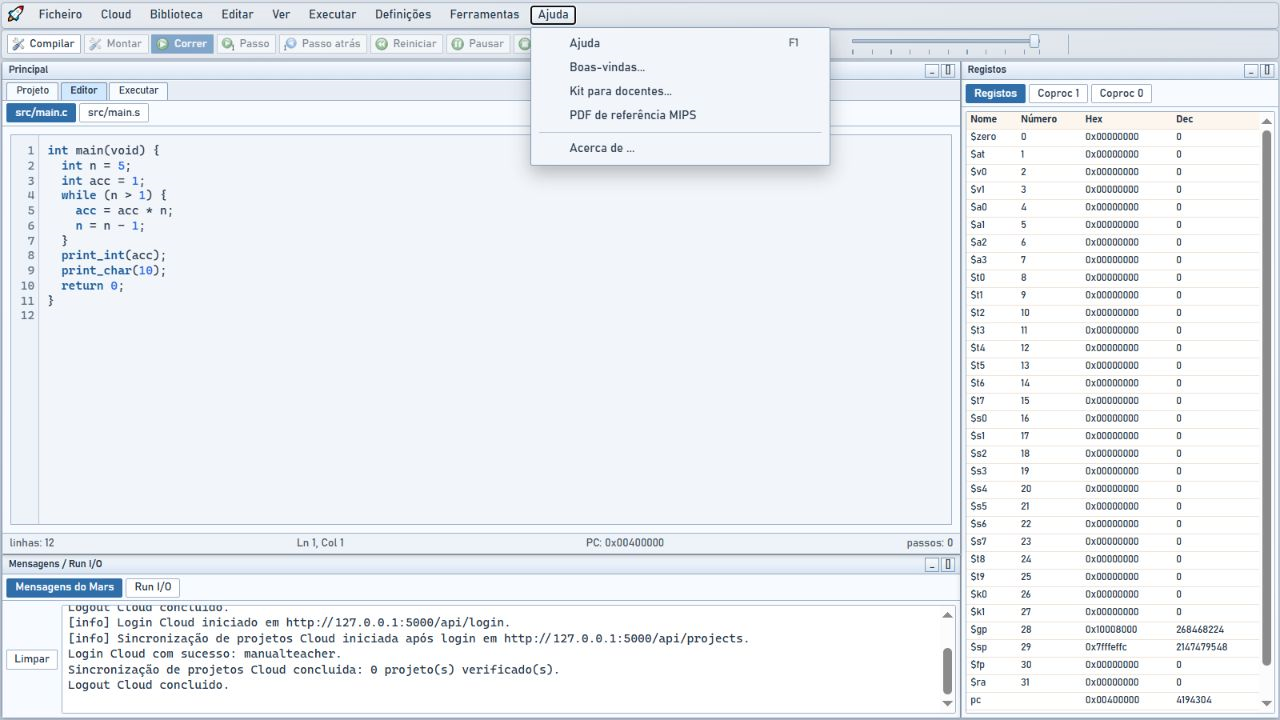
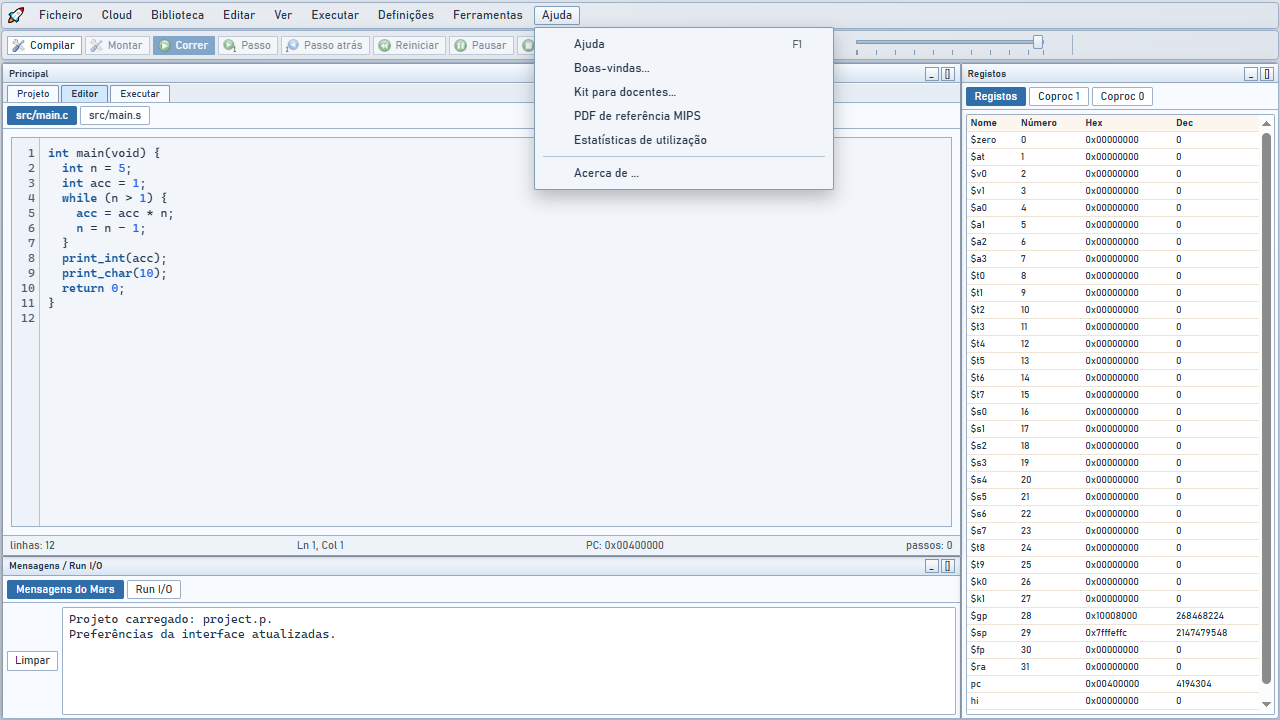
Release Manual v0.2.0 for webMARS v0.6.4

diff --git a/manual/index.html b/manual/index.html
@@ -6,8 +6,8 @@
   <meta name="color-scheme" content="light dark">
   <meta name="theme-color" content="#fdfcf9" media="(prefers-color-scheme: light)">
   <meta name="theme-color" content="#191713" media="(prefers-color-scheme: dark)">
-  <meta name="description" content="Manual completo, independente e pesquisável do webMARS: Assembly MIPS32, Mini-C, depuração, ferramentas, pipeline, Cloud e referência.">
-  <title>Manual do webMARS · v0.1</title>
+  <meta name="description" content="Manual completo, independente e pesquisável do webMARS: Assembly MIPS32, Mini-C, depuração, ferramentas, Cloud, Biblioteca pública e estatísticas de utilização.">
+  <title>Manual do webMARS</title>
   <link rel="icon" href="./assets/favicon.ico">
   <link rel="stylesheet" href="./assets/manual.css">
   <script src="./manual-config.js"></script>
@@ -29,7 +29,7 @@
 
       <a class="head-brand" href="#/inicio">
         <span class="brand-title">Manual do webMARS</span>
-        <span class="brand-edition">Ed. 0.1</span>
+        <span class="brand-edition">Edição</span>
       </a>
 
       <p class="running-recto" id="running-recto"></p>

diff --git a/manual/assets/manual.js b/manual/assets/manual.js
@@ -28,6 +28,9 @@ const searchHint = document.querySelector("#search-hint");
 const toast = document.querySelector("#toast");
 const appLink = document.querySelector("#webmars-app-link");
 const supportLink = document.querySelector("#manual-support-link");
+const brandEdition = document.querySelector(".brand-edition");
+
+if (brandEdition) brandEdition.textContent = `Ed. ${MANUAL.displayVersion.replace(/^v/, "")}`;
 
 if (appLink) {
   appLink.href = String(window.WebMarsManualConfig?.appUrl || "../");

diff --git a/manual/CHANGELOG.md b/manual/CHANGELOG.md
@@ -3,6 +3,39 @@
 Todas as alterações relevantes deste subprojeto são registadas aqui. O formato
 segue *Keep a Changelog* e o manual usa versionamento semântico próprio.
 
+## [0.2.0] — 2026-10-20
+
+### Adicionado
+
+- início de sessão social opcional, associação de contas e configuração dos fornecedores;
+- classificação de público e comparação entre visitas, sessões e atividade Cloud;
+
+- capítulo de Estatísticas de utilização: últimos 60 minutos, 24 horas e
+  30 dias, seis indicadores principais, 12 medições, gráficos, filtros e tabelas;
+- interpretação de sessões, novas sessões, interação, presença, mediana e P90,
+  distinguindo visitas, contas Cloud e resultados educativos;
+- instalação do coletor, retenção, agregados públicos e diagnóstico do painel;
+- captura real do painel com dados sintéticos, elevando o conjunto a 36 imagens.
+
+### Alterado
+
+- produto documentado: webMARS 0.6.4, commit
+  `09afa3008c95b21e2f988e7b3708335d35d16a4f`, verificado em 2026-10-20;
+- Biblioteca pública em vista de detalhe, pesquisa no servidor, páginas de
+  25 resultados, seleção, metadados e navegação por teclado;
+- capturas da Biblioteca pública e menu Ajuda atualizadas para a interface 0.6.3;
+- mapa de dados, recolha automática e Kit Docente atualizados; as 33 capturas
+  dos fluxos que não mudaram conservam a proveniência 0.6.0;
+- cobertura expandida para 21 capítulos numerados, mantendo as URLs anteriores;
+- catálogos locais e hashes do product lock atualizados para a edição auditada.
+
+### Corrigido
+
+- a entrada histórica 0.1.1 apresenta os seus próprios commit e versão, sem
+  herdar dinamicamente os metadados de edições posteriores;
+- esclarecido que `vendor/` serve os testes da aplicação e não o alojamento.
+- a edição no cabeçalho passa a derivar dos metadados do Manual, tal como o título da página.
+
 ## [0.1.1] — 2026-09-03
 
 ### Corrigido
@@ -44,5 +77,6 @@ segue *Keep a Changelog* e o manual usa versionamento semântico próprio.
 - recuperação de password e verificação de email por código temporário;
 - Kit Docente e guia completo de self-hosting/Gmail para webMARS 0.6.0.
 
+[0.2.0]: https://github.com/codigoavulso/webMARS/releases/tag/manual-v0.2.0
 [0.1.1]: https://github.com/codigoavulso/webMARS/releases/tag/manual-v0.1.1
 [0.1.0]: https://github.com/codigoavulso/webMARS/releases/tag/manual-v0.1.0

diff --git a/manual/teacher-kit/self-hosting-privacy.md b/manual/teacher-kit/self-hosting-privacy.md
@@ -8,6 +8,8 @@
 - [ ] Diretório da base de dados é privado e existe backup verificado.
 - [ ] Registo, verificação, reset, publicação e revisão fixa passaram smoke tests.
 - [ ] Política de retenção, logs, suporte e incidente está publicada.
+- [ ] A área de privacidade descreve a recolha automática de métricas, se configurada.
+- [ ] O painel Ajuda → Estatísticas de utilização foi testado para 60 minutos, 24 horas e 30 dias.
 - [ ] Existe contacto institucional para utilizadores.
 
 ## Separação de dados
@@ -16,6 +18,26 @@
 - Cloud: conta e projetos enviados explicitamente ao BackMars.
 - Biblioteca: snapshot sanitizado publicado explicitamente; leitura anónima.
 - SMTP: apenas códigos temporários e avisos; credenciais só no servidor.
+- Métricas da instalação oficial: eventos e tempos aproximados enviados automaticamente,
+  com sessão temporária e categorias limitadas; fontes, input/output e contas ficam fora.
+- Estatísticas públicas: apenas agregados; sessões não são pessoas únicas ou contas registadas.
+- Manual: pesquisa local e sem telemetria.
+
+## Estatísticas e leitura dos dados
+
+O coletor Python/SQLite é um serviço separado do BackMars e do site estático.
+Os endpoints de eventos e agregados devem pertencer à origem da app; a base de
+métricas conserva registos durante 35 dias. O operador informa a política na área
+de privacidade de Ajuda/Sobre e nas páginas públicas correspondentes.
+
+Na instalação oficial, as preferências de interface não controlam a recolha e
+não existe um diálogo de aceitação nem uma caixa de estatísticas. Cada instalação
+própria configura o seu coletor. O heartbeat partilha o fluxo de eventos e envia
+presença visível a cada 60 segundos; interação e presença são relógios separados.
+
+Compare períodos equivalentes sob a mesma política de recolha. Um crescimento de
+sessões não demonstra mais pessoas únicas; uma execução bem-sucedida não prova
+a correção de um exercício. Estas métricas não são um sistema de avaliação.
 
 ## Pedido de suporte seguro
 

diff --git a/manual/README.md b/manual/README.md
@@ -3,7 +3,7 @@
 ![Área de trabalho do webMARS no tema claro](./assets/screenshots/workspace-overview-light.png)
 
 O Manual do webMARS é um subprojeto editorial autónomo, com versão e ciclo de
-lançamento próprios. A versão `0.1.1` documenta o webMARS `0.6.1` em português
+lançamento próprios. A versão `0.2.0` documenta o webMARS `0.6.4` em português
 e foi concebida para poder ser publicada tanto em `/manual/` juntamente com a
 aplicação como num alojamento estático independente.
 
@@ -17,9 +17,15 @@ aplicação como num alojamento estático independente.
 - manter procedimentos reproduzíveis e imagens reais no tema claro;
 - funcionar sem frameworks, serviços externos, cookies ou telemetria.
 
-A edição contém 20 capítulos numerados, apêndices e páginas editoriais, além de
-35 capturas reais: 15 estados gerais da aplicação e uma captura para cada uma
+A edição contém 21 capítulos numerados, apêndices e páginas editoriais, além de
+36 capturas reais: 16 estados gerais da aplicação e uma captura para cada uma
 das 20 ferramentas.
+
+Esta edição inclui o painel público de estatísticas, os seus períodos, filtros,
+12 medições e limites de interpretação, além da Biblioteca pública em tabela,
+com pesquisa no servidor e páginas de 25 resultados. A informação de privacidade
+e os procedimentos do operador/Kit Docente acompanham a recolha automática da
+instalação oficial. O Manual mantém pesquisa local e não envia telemetria.
 
 ## Estrutura
 
@@ -71,7 +77,7 @@ O manual usa versionamento semântico independente da aplicação:
 - **major** — reorganização incompatível de URLs, formato ou público-alvo.
 
 As releases usam o prefixo de tag `manual-v`, por exemplo
-`manual-v0.1.1`, para não colidirem com as tags da aplicação.
+`manual-v0.2.0`, para não colidirem com as tags da aplicação.
 
 A versão compatível da aplicação é sempre mostrada no cabeçalho e registada no
 changelog. Uma nova versão do webMARS não muda automaticamente a versão do

diff --git a/manual/teacher-kit/README.md b/manual/teacher-kit/README.md
@@ -1,6 +1,6 @@
 # Kit para docentes do webMARS
 
-Documentos editáveis que acompanham o Manual v0.1. Substitua todos os campos entre parênteses retos e conserve sempre o URL completo da instalação.
+Documentos editáveis que acompanham o Manual v0.2 para webMARS 0.6.3. Substitua todos os campos entre parênteses retos e conserve sempre o URL completo da instalação.
 
 - `migration.md`: migração de atividades MARS.
 - `first-class.md`: preparação e condução da primeira aula.
